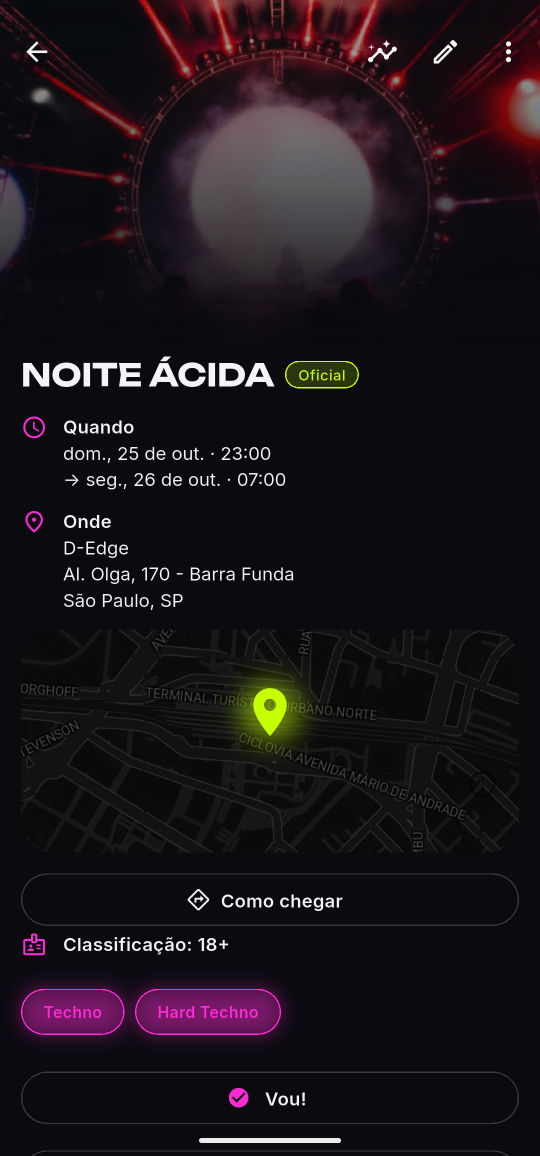
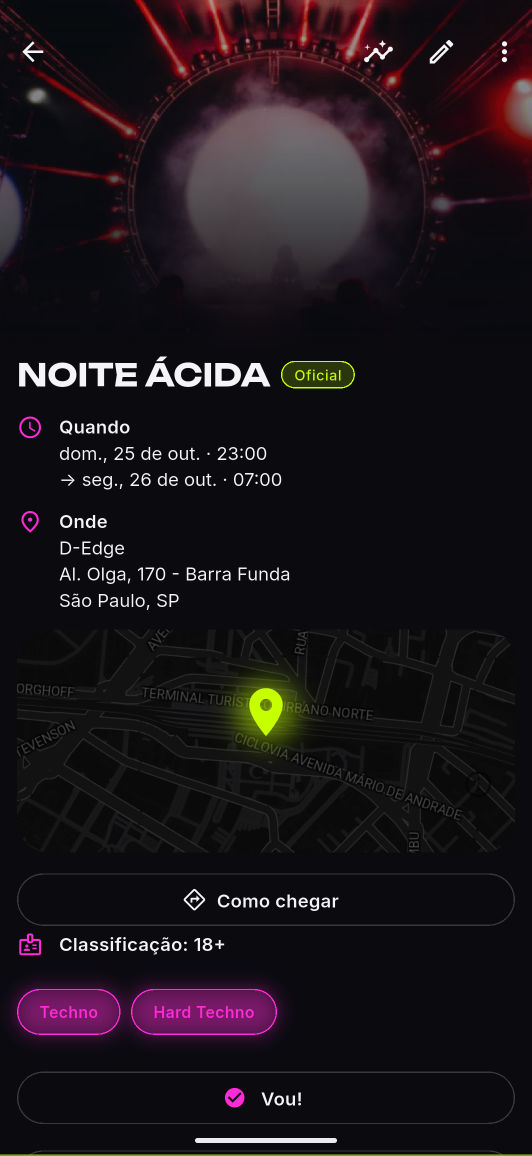
Selo de verificado colado ao nome; site com foco em eventos e crew
- TextWithBadge: o selo (verificado, oficial) fica logo depois do nome, na mesma linha, também quando o texto quebra. Antes o nome ocupava metade da largura no card do Descobrir e o selo ficava solto.
- Como funciona: 8 telas (eventos, evento, quem vai e crews do evento, card do Crew, criar crew, crew, chat do grupo e, por último, o Date).

diff --git a/site/index.html b/site/index.html
@@ -35,12 +35,12 @@ stroke-linejoin="round"><path d="M6 9l6 6 6-6"/></svg></span>
 </section>
 <section class="section" id="como-funciona">
 <span class="eyebrow">Como funciona</span>
-<h2>Da festa ao match em poucos toques</h2>
+<h2>Ache a festa, monte a crew</h2>
 <ol class="screens">
 <li class="screen reveal">
 <div class="phone"><img src="assets/screens/eventos.jpg"
 alt="Tela do app: Ache as festas" loading="lazy"
-width="540" height="1156"></div>
+width="532" height="1156"></div>
 <span class="step">1</span>
 <h3>Ache as festas</h3>
 <p>Techno, house, psy, DnB: filtre por estilo, data e distância.</p>
@@ -48,42 +48,58 @@ width="540" height="1156"></div>
 <li class="screen reveal">
 <div class="phone"><img src="assets/screens/evento.jpg"
 alt="Tela do app: Marque "Eu vou"" loading="lazy"
-width="540" height="1156"></div>
+width="532" height="1156"></div>
 <span class="step">2</span>
 <h3>Marque "Eu vou"</h3>
-<p>Veja o line-up, quem vai e garanta o ingresso.</p>
+<p>Data, local no mapa, line-up e ingresso com cupom, tudo num lugar.</p>
 </li>
 <li class="screen reveal">
-<div class="phone"><img src="assets/screens/descobrir.jpg"
-alt="Tela do app: Conheça gente perto" loading="lazy"
-width="540" height="1156"></div>
+<div class="phone"><img src="assets/screens/evento-crews.jpg"
+alt="Tela do app: Veja quem vai" loading="lazy"
+width="532" height="1156"></div>
 <span class="step">3</span>
-<h3>Conheça gente perto</h3>
-<p>No Date, aparece quem está perto de você, e quem vai às mesmas festas vem primeiro.</p>
-</li>
-<li class="screen reveal">
-<div class="phone"><img src="assets/screens/match.jpg"
-alt="Tela do app: Deu match" loading="lazy"
-width="540" height="1156"></div>
-<span class="step">4</span>
-<h3>Deu match</h3>
-<p>Curtiu e foi curtido? A conversa começa antes da pista.</p>
+<h3>Veja quem vai</h3>
+<p>Quantas pessoas vão e as crews já montadas para a festa.</p>
 </li>
 <li class="screen reveal">
 <div class="phone"><img src="assets/screens/crew.jpg"
-alt="Tela do app: Monte sua crew" loading="lazy"
-width="540" height="1156"></div>
-<span class="step">5</span>
-<h3>Monte sua crew</h3>
-<p>No Crew, aparece só quem vai ao mesmo evento: ache galera para ir junto.</p>
+alt="Tela do app: Ache sua galera" loading="lazy"
+width="532" height="1156"></div>
+<span class="step">4</span>
+<h3>Ache sua galera</h3>
+<p>No Crew, aparece só quem vai ao mesmo evento. Ninguém precisa ir sozinho.</p>
 </li>
 <li class="screen reveal">
-<div class="phone"><img src="assets/screens/chat.jpg"
-alt="Tela do app: Combine o rolê" loading="lazy"
-width="540" height="1156"></div>
+<div class="phone"><img src="assets/screens/criar-crew.jpg"
+alt="Tela do app: Monte a crew" loading="lazy"
+width="532" height="1156"></div>
+<span class="step">5</span>
+<h3>Monte a crew</h3>
+<p>Crie o grupo da festa, aberto ou só por convite.</p>
+</li>
+<li class="screen reveal">
+<div class="phone"><img src="assets/screens/crew-grupo.jpg"
+alt="Tela do app: Combine o encontro" loading="lazy"
+width="532" height="1156"></div>
 <span class="step">6</span>
-<h3>Combine o rolê</h3>
-<p>Chat com fotos e áudios para marcar o ponto de encontro.</p>
+<h3>Combine o encontro</h3>
+<p>Ponto de encontro, membros e convites no mesmo lugar.</p>
+</li>
+<li class="screen reveal">
+<div class="phone"><img src="assets/screens/crew-chat.jpg"
+alt="Tela do app: Chat do grupo" loading="lazy"
+width="532" height="1156"></div>
+<span class="step">7</span>
+<h3>Chat do grupo</h3>
+<p>Fotos e áudios para combinar o esquenta e não se perder na pista.</p>
+</li>
+<li class="screen reveal">
+<div class="phone"><img src="assets/screens/date.jpg"
+alt="Tela do app: E ainda tem o Date" loading="lazy"
+width="532" height="1156"></div>
+<span class="step">8</span>
+<h3>E ainda tem o Date</h3>
+<p>Quem está perto de você, e quem vai às mesmas festas aparece primeiro.</p>
 </li>
 </ol>
 <p class="note">Imagens ilustrativas: pessoas geradas por IA e

diff --git a/tool/site_builder.dart b/tool/site_builder.dart
@@ -86,45 +86,55 @@ const List<({String name, String title, String text})> siteScreens = [
   (
     name: 'evento',
     title: 'Marque "Eu vou"',
-    text: 'Veja o line-up, quem vai e garanta o ingresso.',
+    text: 'Data, local no mapa, line-up e ingresso com cupom, tudo num lugar.',
   ),
   (
-    name: 'descobrir',
-    title: 'Conheça gente perto',
-    text:
-        'No Date, aparece quem está perto de você, e quem vai às mesmas '
-        'festas vem primeiro.',
-  ),
-  (
-    name: 'match',
-    title: 'Deu match',
-    text: 'Curtiu e foi curtido? A conversa começa antes da pista.',
+    name: 'evento-crews',
+    title: 'Veja quem vai',
+    text: 'Quantas pessoas vão e as crews já montadas para a festa.',
   ),
   (
     name: 'crew',
-    title: 'Monte sua crew',
+    title: 'Ache sua galera',
     text:
-        'No Crew, aparece só quem vai ao mesmo evento: ache galera para ir '
-        'junto.',
+        'No Crew, aparece só quem vai ao mesmo evento. Ninguém precisa ir '
+        'sozinho.',
   ),
   (
-    name: 'chat',
-    title: 'Combine o rolê',
-    text: 'Chat com fotos e áudios para marcar o ponto de encontro.',
+    name: 'criar-crew',
+    title: 'Monte a crew',
+    text: 'Crie o grupo da festa, aberto ou só por convite.',
+  ),
+  (
+    name: 'crew-grupo',
+    title: 'Combine o encontro',
+    text: 'Ponto de encontro, membros e convites no mesmo lugar.',
+  ),
+  (
+    name: 'crew-chat',
+    title: 'Chat do grupo',
+    text: 'Fotos e áudios para combinar o esquenta e não se perder na pista.',
+  ),
+  (
+    name: 'date',
+    title: 'E ainda tem o Date',
+    text:
+        'Quem está perto de você, e quem vai às mesmas festas aparece '
+        'primeiro.',
   ),
 ];
 
 String _screens() => [
   '<section class="section" id="como-funciona">',
   '<span class="eyebrow">Como funciona</span>',
-  '<h2>Da festa ao match em poucos toques</h2>',
+  '<h2>Ache a festa, monte a crew</h2>',
   '<ol class="screens">',
   for (final (i, s) in siteScreens.indexed)
     [
       '<li class="screen reveal">',
       '<div class="phone"><img src="assets/screens/${s.name}.jpg"',
       'alt="Tela do app: ${_escape(s.title)}" loading="lazy"',
-      'width="540" height="1156"></div>',
+      'width="532" height="1156"></div>',
       '<span class="step">${i + 1}</span>',
       '<h3>${_escape(s.title)}</h3>',
       '<p>${_escape(s.text)}</p>',

diff --git a/lib/features/profile/presentation/widgets/profile_view.dart b/lib/features/profile/presentation/widgets/profile_view.dart
@@ -2,6 +2,7 @@ import 'package:material_ui/material_ui.dart';
 import 'package:pulse/core/extensions/context_extensions.dart';
 import 'package:pulse/core/widgets/genre_chip.dart';
 import 'package:pulse/core/widgets/glass_card.dart';
+import 'package:pulse/core/widgets/text_with_badge.dart';
 import 'package:pulse/features/badges/presentation/widgets/profile_badges.dart';
 import 'package:pulse/features/profile/domain/profile.dart';
 import 'package:pulse/features/profile/presentation/profile_labels.dart';
@@ -82,23 +83,16 @@ class ProfileView extends StatelessWidget {
                         child: Column(
                           crossAxisAlignment: CrossAxisAlignment.start,
                           children: [
-                            Row(
-                              children: [
-                                Flexible(
-                                  child: Text(
-                                    l10n.profileNameAge(p.firstName, p.age),
-                                    style: context.textTheme.headlineMedium,
-                                  ),
-                                ),
-                                if (p.isVerified) ...[
-                                  SizedBox(width: spacing.xs),
-                                  Icon(
-                                    Icons.verified,
-                                    color: colors.lime,
-                                    semanticLabel: l10n.profileVerified,
-                                  ),
-                                ],
-                              ],
+                            TextWithBadge(
+                              l10n.profileNameAge(p.firstName, p.age),
+                              style: context.textTheme.headlineMedium,
+                              badge: p.isVerified
+                                  ? Icon(
+                                      Icons.verified,
+                                      color: colors.lime,
+                                      semanticLabel: l10n.profileVerified,
+                                    )
+                                  : null,
                             ),
                             if (p.city != null)
                               Text(

diff --git a/lib/features/events/presentation/widgets/event_visuals.dart b/lib/features/events/presentation/widgets/event_visuals.dart
@@ -4,6 +4,7 @@ import 'package:intl/intl.dart';
 import 'package:material_ui/material_ui.dart';
 import 'package:pulse/core/extensions/context_extensions.dart';
 import 'package:pulse/core/models/user_role.dart';
+import 'package:pulse/core/widgets/text_with_badge.dart';
 import 'package:pulse/features/events/data/events_repository.dart';
 import 'package:pulse/features/events/domain/event.dart';
 import 'package:pulse/l10n/app_localizations.dart';
@@ -211,26 +212,18 @@ class EventCard extends StatelessWidget {
                 child: Column(
                   crossAxisAlignment: CrossAxisAlignment.start,
                   children: [
-                    Row(
-                      children: [
-                        Flexible(
-                          child: Text(
-                            event.name,
-                            maxLines: 2,
-                            overflow: TextOverflow.ellipsis,
-                            style: context.textTheme.titleLarge,
-                          ),
-                        ),
-                        if (event.isOfficial) ...[
-                          SizedBox(width: spacing.xs),
-                          Icon(
-                            Icons.verified,
-                            size: 18,
-                            color: colors.lime,
-                            semanticLabel: l10n.eventOfficial,
-                          ),
-                        ],
-                      ],
+                    TextWithBadge(
+                      event.name,
+                      maxLines: 2,
+                      style: context.textTheme.titleLarge,
+                      badge: event.isOfficial
+                          ? Icon(
+                              Icons.verified,
+                              size: 18,
+                              color: colors.lime,
+                              semanticLabel: l10n.eventOfficial,
+                            )
+                          : null,
                     ),
                     SizedBox(height: spacing.xxs),
                     Text(

diff --git a/lib/features/discover/presentation/widgets/discover_widgets.dart b/lib/features/discover/presentation/widgets/discover_widgets.dart
@@ -2,6 +2,7 @@ import 'package:material_ui/material_ui.dart';
 import 'package:pulse/core/extensions/context_extensions.dart';
 import 'package:pulse/core/models/app_mode.dart';
 import 'package:pulse/core/widgets/genre_chip.dart';
+import 'package:pulse/core/widgets/text_with_badge.dart';
 import 'package:pulse/features/badges/presentation/widgets/profile_badges.dart';
 import 'package:pulse/features/discover/domain/discover_models.dart';
 import 'package:pulse/features/events/presentation/widgets/event_visuals.dart';
@@ -84,21 +85,19 @@ class CandidateCard extends StatelessWidget {
 
     final nameRow = Row(
       children: [
-        Flexible(
-          child: Text(
+        Expanded(
+          child: TextWithBadge(
             l10n.profileNameAge(c.firstName, c.age),
             style: context.textTheme.headlineMedium,
+            badge: c.isVerified
+                ? Icon(
+                    Icons.verified,
+                    color: colors.lime,
+                    semanticLabel: l10n.profileVerified,
+                  )
+                : null,
           ),
         ),
-        if (c.isVerified) ...[
-          SizedBox(width: spacing.xs),
-          Icon(
-            Icons.verified,
-            color: colors.lime,
-            semanticLabel: l10n.profileVerified,
-          ),
-        ],
-        const Spacer(),
         Icon(Icons.keyboard_arrow_up, color: accent),
       ],
     );

diff --git a/site/assets/site.css b/site/assets/site.css
@@ -141,7 +141,7 @@ canvas.scene { position: fixed; inset: 0; width: 100%; height: 100%; z-index: -1
 }
 .screen { scroll-snap-align: center; display: flex; flex-direction: column; gap: 6px; }
 .phone {
-  position: relative; border-radius: 34px; padding: 7px; aspect-ratio: 540 / 1156;
+  position: relative; border-radius: 34px; padding: 7px; aspect-ratio: 532 / 1156;
   background: linear-gradient(160deg, rgba(255, 43, 214, .55), rgba(123, 44, 255, .35) 45%, rgba(0, 229, 255, .45));
   box-shadow: 0 18px 50px rgba(123, 44, 255, .35), 0 0 0 1px rgba(245, 245, 247, .08);
   transition: transform .35s ease, box-shadow .35s ease;
@@ -159,8 +159,8 @@ canvas.scene { position: fixed; inset: 0; width: 100%; height: 100%; z-index: -1
 .screen p { margin: 0; color: var(--muted); font-size: .95rem; }
 .note { margin: 10px 0 0; color: var(--muted); font-size: .8rem; }
 @media (min-width: 900px) {
-  .screens { grid-auto-flow: row; grid-template-columns: repeat(3, 1fr); gap: 40px 36px; overflow: visible; padding: 0; }
-  .screen { padding: 0 12px; }
+  .screens { grid-auto-flow: row; grid-template-columns: repeat(4, 1fr); gap: 40px 28px; overflow: visible; padding: 0; }
+  .screen { padding: 0 4px; }
 }
 
 /* Document pages */

diff --git a/tool/site_template/site.css b/tool/site_template/site.css
@@ -141,7 +141,7 @@ canvas.scene { position: fixed; inset: 0; width: 100%; height: 100%; z-index: -1
 }
 .screen { scroll-snap-align: center; display: flex; flex-direction: column; gap: 6px; }
 .phone {
-  position: relative; border-radius: 34px; padding: 7px; aspect-ratio: 540 / 1156;
+  position: relative; border-radius: 34px; padding: 7px; aspect-ratio: 532 / 1156;
   background: linear-gradient(160deg, rgba(255, 43, 214, .55), rgba(123, 44, 255, .35) 45%, rgba(0, 229, 255, .45));
   box-shadow: 0 18px 50px rgba(123, 44, 255, .35), 0 0 0 1px rgba(245, 245, 247, .08);
   transition: transform .35s ease, box-shadow .35s ease;
@@ -159,8 +159,8 @@ canvas.scene { position: fixed; inset: 0; width: 100%; height: 100%; z-index: -1
 .screen p { margin: 0; color: var(--muted); font-size: .95rem; }
 .note { margin: 10px 0 0; color: var(--muted); font-size: .8rem; }
 @media (min-width: 900px) {
-  .screens { grid-auto-flow: row; grid-template-columns: repeat(3, 1fr); gap: 40px 36px; overflow: visible; padding: 0; }
-  .screen { padding: 0 12px; }
+  .screens { grid-auto-flow: row; grid-template-columns: repeat(4, 1fr); gap: 40px 28px; overflow: visible; padding: 0; }
+  .screen { padding: 0 4px; }
 }
 
 /* Document pages */

diff --git a/lib/core/widgets/text_with_badge.dart b/lib/core/widgets/text_with_badge.dart
@@ -1,0 +1,41 @@
+import 'package:material_ui/material_ui.dart';
+import 'package:pulse/core/extensions/context_extensions.dart';
+
+/// Text followed by a small icon (verified, official) that sits right after
+/// the last word, on the same line, even when the text wraps.
+class TextWithBadge extends StatelessWidget {
+  const new(
+    this.text, {
+    required this.style,
+    this.badge,
+    this.maxLines,
+    super.key,
+  });
+
+  final String text;
+  final TextStyle? style;
+
+  /// Shown after the text; null shows only the text.
+  final Widget? badge;
+  final int? maxLines;
+
+  @override
+  Widget build(BuildContext context) => Text.rich(
+    TextSpan(
+      text: text,
+      children: [
+        if (badge case final badge?)
+          WidgetSpan(
+            alignment: PlaceholderAlignment.middle,
+            child: Padding(
+              padding: EdgeInsets.only(left: context.spacing.xs),
+              child: badge,
+            ),
+          ),
+      ],
+    ),
+    style: style,
+    maxLines: maxLines,
+    overflow: maxLines == null ? null : TextOverflow.ellipsis,
+  );
+}
